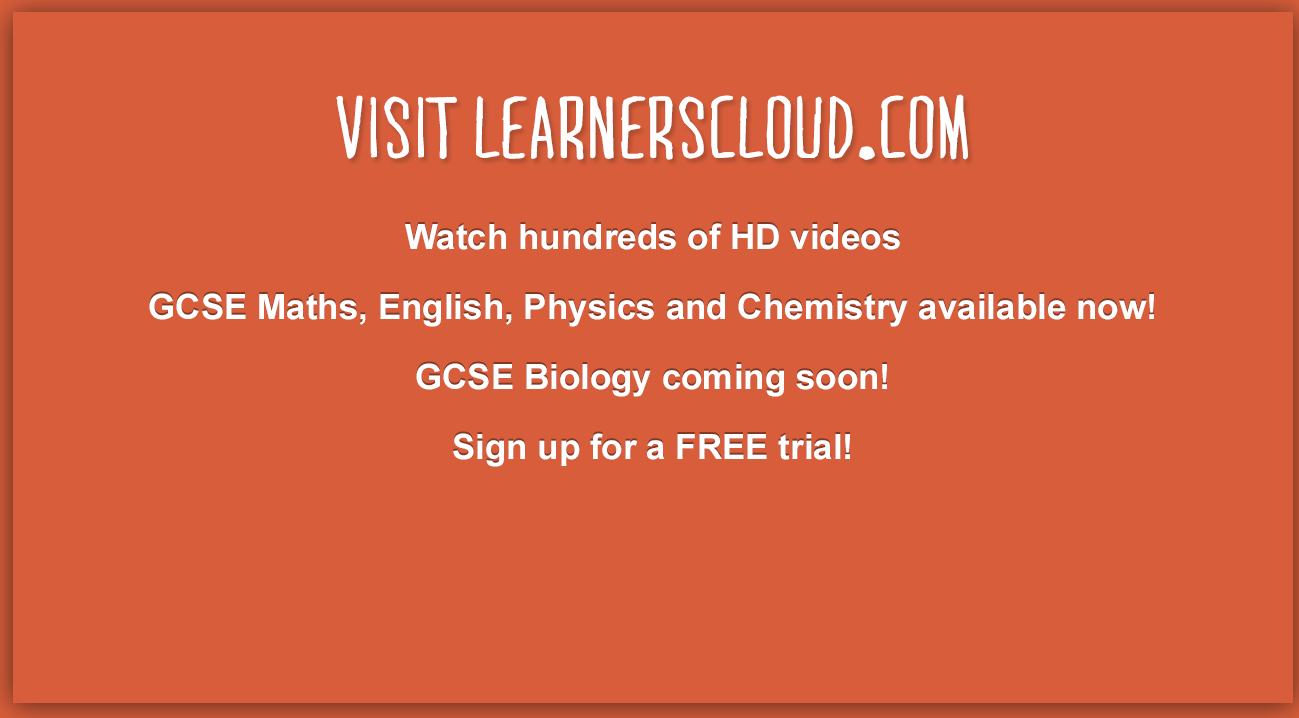
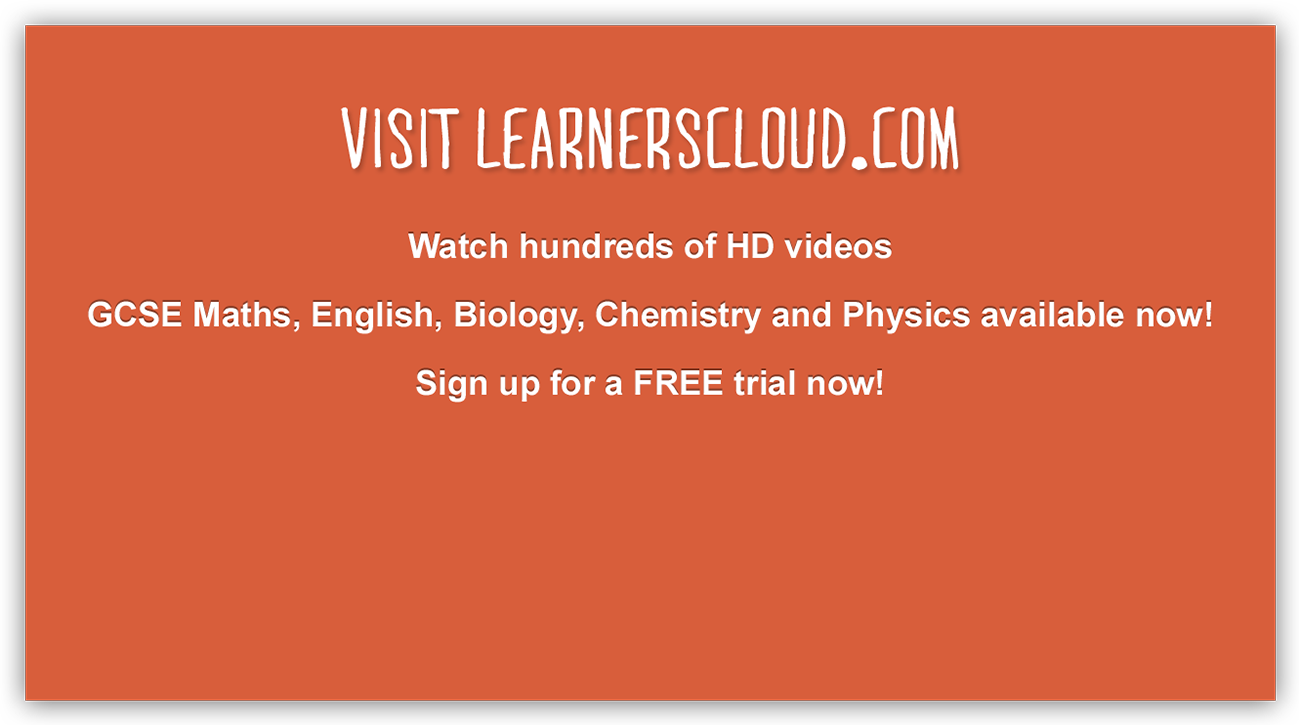
promo

diff --git a/VideoPlayer.m b/VideoPlayer.m
@@ -88,21 +88,26 @@
         
         if([VideoFileName isEqualToString:@"Maths"]){
             
-            ServerLocation = @"http://learnerscloud.com/iosStream/maths/MathsTtrailerv6";
+            ServerLocation = @"http://learnerscloud.com/iosStreamv2/maths/MathsTtrailerv6";
         }
         else if ([VideoFileName isEqualToString:@"English"]){
             
-            ServerLocation = @"http://learnerscloud.com/iosStream/english/EnglishTrailerv5";
+            ServerLocation = @"http://learnerscloud.com/iosStreamv2/english/EnglishTrailerv5";
             
         }
         else if ([VideoFileName isEqualToString:@"Physics"]){
             
-            ServerLocation = @"http://learnerscloud.com/iosStream/Physics/PhysicsTrailerV5";
+            ServerLocation = @"http://learnerscloud.com/iosStreamv2/Physics/PhysicsTrailerV5";
             
         }
         else if ([VideoFileName isEqualToString:@"Chemistry"]){
             
-            ServerLocation = @"http://learnerscloud.com/iosStream/Chemistry/ChemistryPromoFINAL";
+            ServerLocation = @"http://learnerscloud.com/iosStreamv2/Chemistry/ChemistryPromoFINAL";
+            
+        }
+        else if ([VideoFileName isEqualToString:@"Biology"]){
+            
+            ServerLocation = @"http://learnerscloud.com/iosStreamv2/Biology/BIO-Trailer";
             
         }
         
@@ -110,17 +115,17 @@
         //Authentication Details here
         
         NSURLCredential *credential1 = [[NSURLCredential alloc]
-                                        initWithUser:@"Theta"
-                                        password:@"Ffk7acay@#"
+                                        initWithUser:@"iosuser"
+                                        password:@"letmein2"
                                         persistence: NSURLCredentialPersistenceForSession];
         self.credential = credential1;
         
-        NSString *DomainLocation = @"learnerscloud.com";
+        NSString *DomainLocation = @"www.learnerscloud.com";
         
         NSURLProtectionSpace *protectionSpace1 = [[NSURLProtectionSpace alloc]
                                                   initWithHost: DomainLocation
-                                                  port:80
-                                                  protocol:@"http"
+                                                  port:443
+                                                  protocol:@"https"
                                                   realm: DomainLocation
                                                   authenticationMethod:NSURLAuthenticationMethodDefault];
         self.protectionSpace = protectionSpace1;

diff --git a/LearnersCloudSamplesVideos.m b/LearnersCloudSamplesVideos.m
@@ -63,8 +63,8 @@
 	[ImageNames addObject:@"Physics.png"];
 	[listofItems addObject:@"   Chemistry - Trailer"];
 	[ImageNames addObject:@"Chemistry.png"];
-//	[listofItems addObject:@"French"];
-//	[ImageNames addObject:@"French.png"];
+    [listofItems addObject:@"    Biology - Trailer"];
+    [ImageNames addObject:@"Biology.png"];
 //	[listofItems addObject:@"Batteries"];
 //	[ImageNames addObject:@"Batteries.png"];
 //	[listofItems addObject:@"The Ruined Maid"];
@@ -265,6 +265,17 @@
 			VP4.hidesBottomBarWhenPushed = YES;
 			[self.navigationController pushViewController:VP4 animated:YES];
 			[VP4 release];
+			
+			
+			
+			break;
+        case 4:
+			;
+			VideoPlayer *VP5 = [[VideoPlayer	alloc] initWithNibName:nil bundle:nil];
+			VP5.VideoFileName =@"Biology";
+			VP5.hidesBottomBarWhenPushed = YES;
+			[self.navigationController pushViewController:VP5 animated:YES];
+			[VP5 release];
 			
 			
 			
